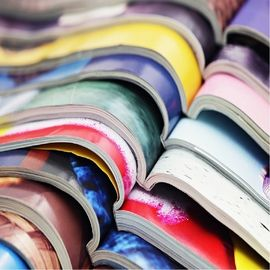
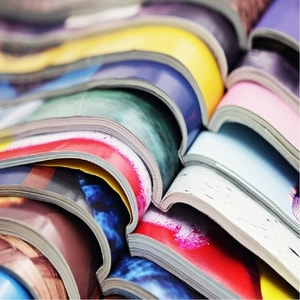
ajustements images et h1

diff --git a/index.html b/index.html
@@ -102,7 +102,7 @@
                 alt="Logo de La chouette agence, agence webdesign Lyon"
               />
               <h1 class="text-center hero-bloc-text tc-white">
-                La Chouette Agence <br />
+                La Chouette Agence :<br />
                 Agence webdesign Lyon
               </h1>
               <div class="text-center">
@@ -310,7 +310,7 @@
                 data-caption="Conception d'un site pour une agence de mariage"
                 data-frame="snapshot-lb"
                 ><img
-                  src="img/4.bmp"
+                  src="img/4.jpg"
                   class="img-responsive portfolio-thumb"
                   alt="conception site internet d'une agence de mariage"
               /></a>
@@ -357,7 +357,7 @@
         <div class="row">
           <div class="col-sm-12">
             <p class="text-center white">
-              La chouette agence - Agence web basée à Lyon.<br /><!--br inutile-->
+              La chouette agence : Agence web basée à Lyon.<br /><!--br inutile-->
             </p>
             <div class="row row-no-gutters social">
               <!--les liens des icons devraient renvoyer vers les pages de l'entreprise sur les réseaux-->
